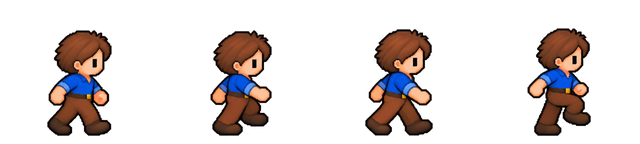
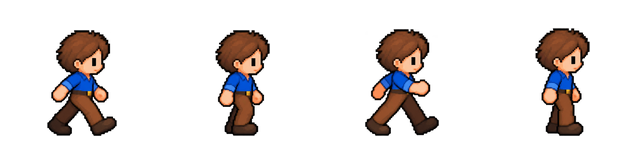
Use approved simple near and far leg swing for both founders

diff --git a/art/walk-v4/PROMPTS.md b/art/walk-v4/PROMPTS.md
@@ -1,17 +1,28 @@
-# Gehfolge mit vollständigen Figuren
+# Gang 2: einfacher Wechsel von hellem und dunklem Bein
 
-Erstellt mit dem eingebauten Bildgenerator (`imagegen`). Die finalen Quellbilder enthalten jeweils vier vollständige Personen. Die Spielgrafiken werden nur freigestellt, einheitlich verkleinert und an Kopf- und Fußpunkten registriert. Es werden keine Gliedmaßen getrennt zusammengesetzt.
+Erstellt mit dem eingebauten Bildgenerator (`imagegen`). Jonas wurde vom Nutzer als Bildfolge bestätigt. Lena verwendet dieselben vollständigen Posen. Das helle Bein bleibt kameranah und überdeckt das dunkle, kameraferne Bein an Kreuzungen. Beide schwingen abwechselnd nach vorne und hinten; die Zwischenbilder verzichten auf hochgezogene Knie.
 
-Spielgrafiken: `assets/walk_v4/jonas.png`, `assets/walk_v4/lena.png`.
-
-Finale Quellen: `art/walk-v4/jonas-walk-source.png`, `art/walk-v4/lena-walk-source.png`.
-
-Gemeinsame Posenreferenz: `art/walk-v4/jonas-four-complete.png`. Identität und Stil: die beiden `reference-*.png`.
+Quellbilder: `jonas-walk-source.png`, `lena-walk-source.png`. Runtime: `assets/walk_v4/jonas.png`, `assets/walk_v4/lena.png`. Der Import beschneidet und skaliert nur vollständige Personen; es gibt keine separaten Gliedmaßen.
 
 ## Jonas
 
-Use case: precise-object-edit / identity-preserve. IMAGE 1 IS THE EDIT TARGET: a 2-column by 2-row sheet of FOUR COMPLETE walking figures. IMAGE 2 defines the approved identity and art style. Repaint the FOUR FULL FIGURES as the same consistent Jonas: short brown hair, BLUE shirt. Preserve the EXACT FOUR DIFFERENT POSES AND THEIR ORDER in image 1. Do NOT invent or substitute any other leg pose: top left near leg forward, top right near leg supports and far knee swings forward, bottom left near leg BACK and far leg forward, bottom right far leg supports and near knee swings forward. Arms also retain their shown positions. The task is to unify the COMPLETE person's head size, hair, face, shirt, belt, broad trouser thickness, rounded boots, warm pixel-art material shading and proportions across all four pictures. Keep each person upright, coherently attached, equal scale and same feet baseline. Remove stray fringe pixels. No separate limbs, no diagrams, no extra frames, no labels, no lines, no scenery, no shadows or props. Keep a 2 by 2 layout with generous transparent space between figures. Transparent background.
+Use case: identity-preserve.
+Create a 2 by 2 sheet of FOUR COMPLETE side-view game character pictures, always facing RIGHT, on transparent background. The attached small complete person is the identity and style reference: Jonas, brown hair, blue shirt, brown trousers and rounded dark boots. Preserve his entire design and proportions, especially his thick trouser legs and boots. Keep head and torso consistent in every cell, same scale, same baseline.
+
+The simple walk is a pendulum, with almost STRAIGHT legs, NO high knees or crouching.
+CRITICAL: the leg CLOSER TO THE CAMERA is always LIGHT WARM BROWN. The leg FARTHER FROM THE CAMERA is always DARK BROWN, and is always BEHIND the light leg at overlaps. These are permanent identities, NOT lighting based on left/right position.
+Top-left: LIGHT near leg stretches diagonally FORWARD to the RIGHT; DARK far leg stretches diagonally BACK to the LEFT. Near arm goes back.
+Top-right: both legs nearly VERTICAL underneath the hips, crossing, LIGHT leg occludes DARK leg. Arms passing down.
+Bottom-left: DARK far leg stretches diagonally FORWARD to the RIGHT; LIGHT near leg stretches diagonally BACK to the LEFT. This is the OPPOSITE step from top-left: the boot on the LEFT belongs to the LIGHT leg, the boot on the RIGHT belongs to the DARK leg. The light near leg still visibly overlaps the dark far thigh at the crotch. Near arm goes forward.
+Bottom-right: both legs nearly VERTICAL underneath the hips, crossing the other way, LIGHT leg occludes DARK leg. Arms passing down.
+
+Use a modest step width. Exactly two legs on each complete person, both connected naturally at the hips. Clear persistent light/dark trouser leg distinction from hip all the way to each boot. The complete figures must look coherent, matching the reference's warm refined game sprite art. No separate parts, no labels, no scenery, no shadows, no text. Transparent background.
 
 ## Lena
 
-Use case: precise-object-edit / identity-preserve. IMAGE 1 IS THE EDIT TARGET: a 2-column by 2-row sheet of FOUR COMPLETE walking figures. IMAGE 2 defines the approved identity and art style. Repaint the FOUR FULL FIGURES as the same consistent Lena: shoulder-length brown hair, RED shirt. Preserve the EXACT FOUR DIFFERENT POSES AND THEIR ORDER in image 1. Do NOT invent or substitute any other leg pose: top left near leg forward, top right near leg supports and far knee swings forward, bottom left near leg BACK and far leg forward, bottom right far leg supports and near knee swings forward. Arms also retain their shown positions. The task is to unify the COMPLETE person's head size, hair, face, shirt, belt, broad trouser thickness, rounded boots, warm pixel-art material shading and proportions across all four pictures. Keep each person upright, coherently attached, equal scale and same feet baseline. Remove stray fringe pixels. No separate limbs, no diagrams, no extra frames, no labels, no lines, no scenery, no shadows or props. Keep a 2 by 2 layout with generous transparent space between figures. Transparent background.
+Use case: identity-preserve / style-transfer.
+IMAGE 1 is the APPROVED EDIT TARGET: the user accepted these exact four complete walking poses. IMAGE 2 is the female identity reference.
+Transform the four COMPLETE people in image 1 into Lena from image 2: shoulder-length brown hair, RED shirt, same brown trousers, rounded brown boots and belt. Match her whole-person design from the reference, keeping the approved target's simple four poses and their layout, near/far leg shading, leg thickness and proportions exactly.
+
+Keep the four leg poses UNCHANGED: top left LIGHT camera-near leg forward RIGHT, DARK far leg back LEFT; top right legs almost vertical; bottom left LIGHT near leg back LEFT, DARK far leg forward RIGHT; bottom right legs almost vertical. The LIGHT leg ALWAYS overlaps the DARK leg, which stays behind in depth. Both legs stay almost straight, no high knees. Keep the arm swing from the corresponding target frame. Same full-body scale and head/foot registration in all cells.
+Draw four coherent COMPLETE women. Preserve the fine warm game-sprite style. No separated limbs, no labels, no shadows, no props, no scenery. Same 2 by 2 layout. Transparent background.

diff --git a/art/walk-v4/README.md b/art/walk-v4/README.md
@@ -4,8 +4,8 @@ Der Gelenkansatz wurde nach der Rückmeldung des Nutzers am 23.10.2026 verworfen
 
 Die Referenzbilder sind unveränderte Ausschnitte der ursprünglichen vollständigen Seitenansicht aus `assets/home_v2`. Die neuen Quellbilder zeigen jeweils vier vollständige Figuren im gleichen Stil. Im Spiel werden ausschließlich diese ganzen Bilder gewechselt; separate Gliedmaßen und Gelenkmodelle werden nicht verwendet.
 
-Die Folge besteht aus Schritt links, Durchschwingen des anderen Beins, Schritt rechts und gegengleichem Durchschwingen. Die Fußlinie bleibt auf derselben Höhe, Kopf und Körper werden gemeinsam registriert. Die Schrittfolge folgt der tatsächlich zurückgelegten Strecke.
+Die Folge besteht aus hellem Bein nach vorne, enger Beinstellung, dunklem Bein nach vorne und enger Beinstellung. Das helle Bein bleibt immer kameranah, das dunkle immer dahinter. Die Beine schwingen nahezu gerade vor und zurück. Die Fußlinie bleibt auf derselben Höhe, Kopf und Körper werden gemeinsam registriert. Die Schrittfolge folgt der tatsächlich zurückgelegten Strecke.
 
-Der Teststand heißt „Gang 1“, weiterhin Version 1.1.0 unter `/fein`. Er betrifft den Seitengang von Jonas und Lena. Die übrigen Grafikaufgaben warten auf die Rückmeldung zu diesem Teststand.
+Der Teststand heißt „Gang 2“, weiterhin Version 1.1.0 unter `/fein`. Die neue vollständige Jonas-Bildfolge wurde am 23.10.2026 vom Nutzer bestätigt; Lena übernimmt dieselben Posen. Der Stand betrifft den Seitengang von Jonas und Lena. Die übrigen Grafikaufgaben warten auf die Rückmeldung zu diesem Teststand.
 
 Die fertigen Spielbilder liegen in `assets/walk_v4/jonas.png` und `assets/walk_v4/lena.png`; Quellen, Referenzen und die finalen Prompts bleiben in diesem Ordner.
